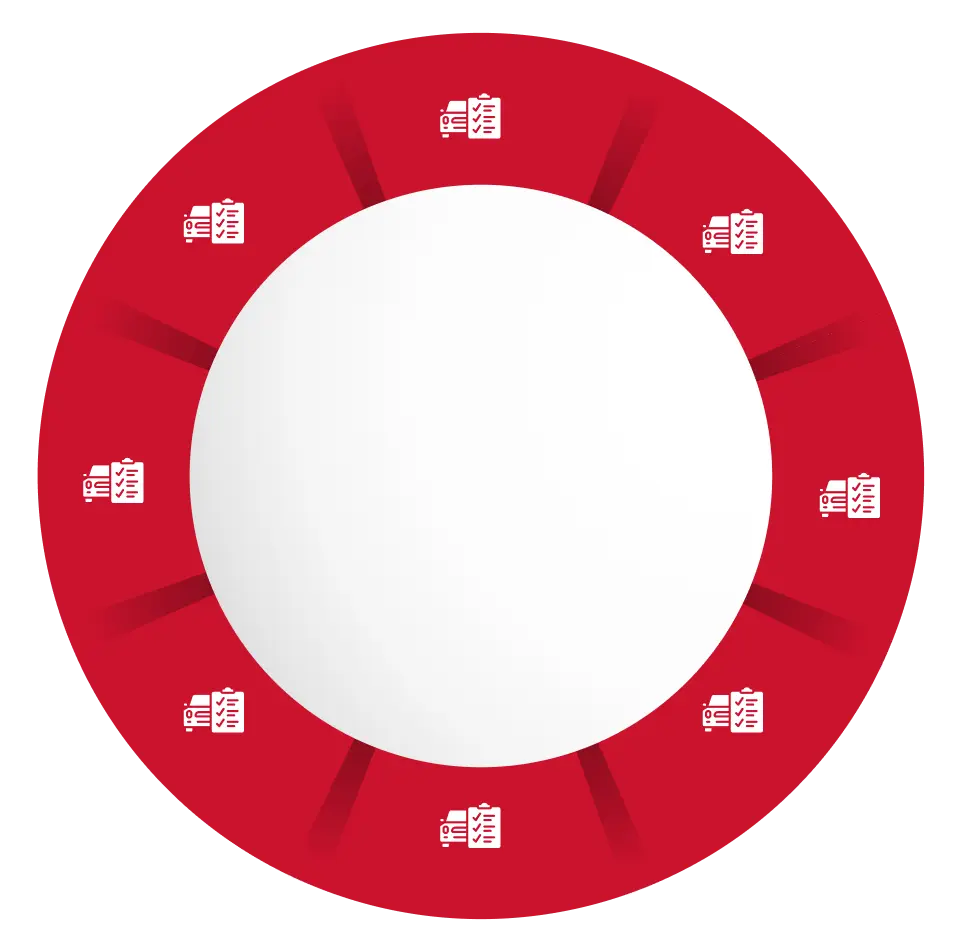
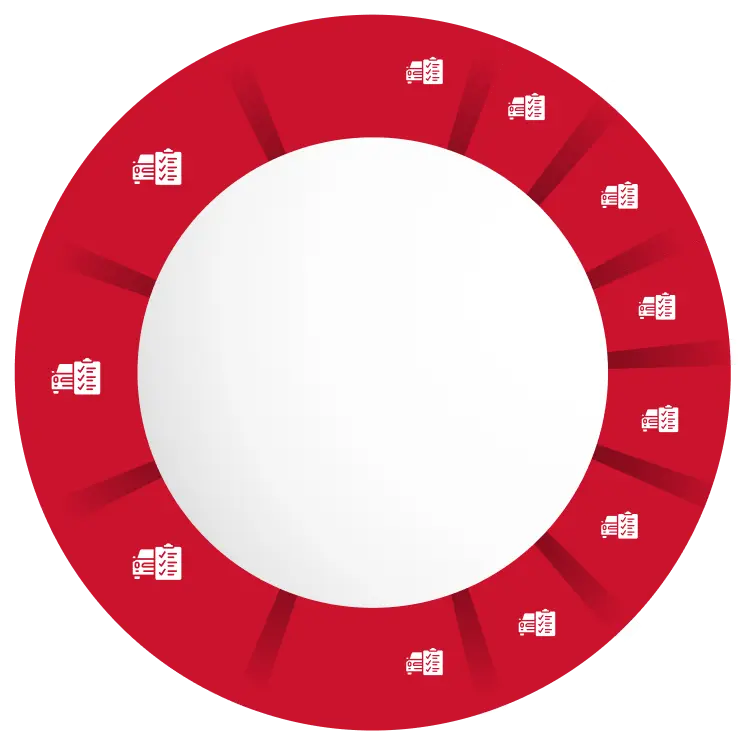
code puh

diff --git a/about-us.html b/about-us.html
@@ -37,8 +37,8 @@
     <section class="bg-white h-full">
         <div class="w-full flex justify-between">
             <div
-                class="md:w-1/5 w-full md:block hidden relative bg-[url('./img/about_us_roadmap.webp')] bg-cover bg-center">
-                <span class="sticky top-60 ">
+                class="md:w-1/5 w-full md:block hidden relative bg-[url('./img/about_us_roadmap.webp')] bg-cover bg-center py-28">
+                <span class="sticky top-32 ">
                     <img fetchpriority="low" loading="lazy" src="img/about_car.webp" class="w-full object-contain">
                 </span>
             </div>
@@ -969,7 +969,7 @@
                                 </button>
 
                                 <!-- Car Service mobile -->
-                                <button data-index="1" data-angle="15"
+                                <button data-index="1" data-angle="10"
                                     class="label sm:!hidden block absolute top-[-25%] left-[56%]  text-start font-semibold text-[#000000] transition-all duration-300 ease-in-out text-xs sm:text-sm md:text-base lg:text-lg xl:text-xl w-[11rem] leading-snug">
                                     Car Service
                                     <span
@@ -989,7 +989,7 @@
                                 </button>
 
                                 <!-- Battery Service mobile -->
-                                <button data-index="3" data-angle="45"
+                                <button data-index="3" data-angle="35"
                                     class="label sm:!hidden block absolute top-[-5%] right-[-25%] text-start font-semibold text-[#000000] transition-all duration-300 ease-in-out text-xs sm:text-sm md:text-base lg:text-lg xl:text-xl w-[11rem] leading-snug">
                                     Battery Service
                                     <span
@@ -1009,7 +1009,7 @@
                                 </button>
 
                                 <!-- Tyre Care mobile -->
-                                <button data-index="5" data-angle="65"
+                                <button data-index="5" data-angle="55"
                                     class="label sm:!hidden block absolute top-[23%] right-[-44%] -translate-y-1/2 text-start font-semibold text-[#000000] transition-all duration-300 ease-in-out text-xs sm:text-sm md:text-base lg:text-lg xl:text-xl w-[11rem] leading-snug">
                                     Tyre Care
                                     <span
@@ -1028,7 +1028,7 @@
                                     </span>
                                 </button>
                                 <!-- AC Service mobile -->
-                                <button data-index="7" data-angle="85"
+                                <button data-index="7" data-angle="78"
                                     class="label sm:!hidden block absolute top-[37%] right-[-50%] text-start font-semibold text-[#000000] transition-all duration-300 ease-in-out text-xs sm:text-sm md:text-base lg:text-lg xl:text-xl w-[11rem] leading-snug">
                                     AC Service
                                     <span
@@ -1038,7 +1038,7 @@
                                 </button>
 
                                 <!-- Headlight Polish mobile -->
-                                <button data-index="8" data-angle="105"
+                                <button data-index="8" data-angle="100"
                                     class="label sm:!hidden block absolute top-[56%] right-[-50%] text-start font-semibold text-[#000000] transition-all duration-300 ease-in-out text-xs sm:text-sm md:text-base lg:text-lg xl:text-xl w-[11rem]  leading-snug">
                                     Headlight Polish
                                     <span
@@ -1050,7 +1050,7 @@
 
 
                                 <!-- Body Shop mobile -->
-                                <button data-index="9" data-angle="125"
+                                <button data-index="9" data-angle="120"
                                     class="label sm:!hidden block absolute top-[75%] right-[-44%] text-start font-semibold text-[#000000] transition-all duration-300 ease-in-out text-xs sm:text-sm md:text-base lg:text-lg xl:text-xl w-[11rem]  leading-snug">
                                     Body Shop
                                     <span
@@ -1061,7 +1061,7 @@
 
 
                                 <!-- Engine Care mobile -->
-                                <button data-index="10" data-angle="140"
+                                <button data-index="10" data-angle="145"
                                     class="label sm:!hidden block absolute bottom-[-16%] right-[-25%] text-start font-semibold text-[#000000] transition-all duration-300 ease-in-out text-xs sm:text-sm md:text-base lg:text-lg xl:text-xl w-[11rem]  leading-snug">
                                     Engine Care
                                     <span
@@ -1188,10 +1188,17 @@
 
             let currentActive = null;
 
+            // ✅ Arrow distance adjusted for mobile view
             function computeArrowDistance() {
                 const rect = container.getBoundingClientRect();
                 const radius = rect.width / 2;
-                return Math.round(radius * 0.96);
+
+                // 🔸 Push arrow slightly outward on mobile
+                if (window.innerWidth <= 640) {
+                    return Math.round(radius * 1); // small outward shift for mobile
+                } else {
+                    return Math.round(radius * 0.96); // normal for desktop
+                }
             }
 
             function moveArrow(angle) {
@@ -1249,6 +1256,7 @@
             }
         });
     </script>
+
 
 
 
